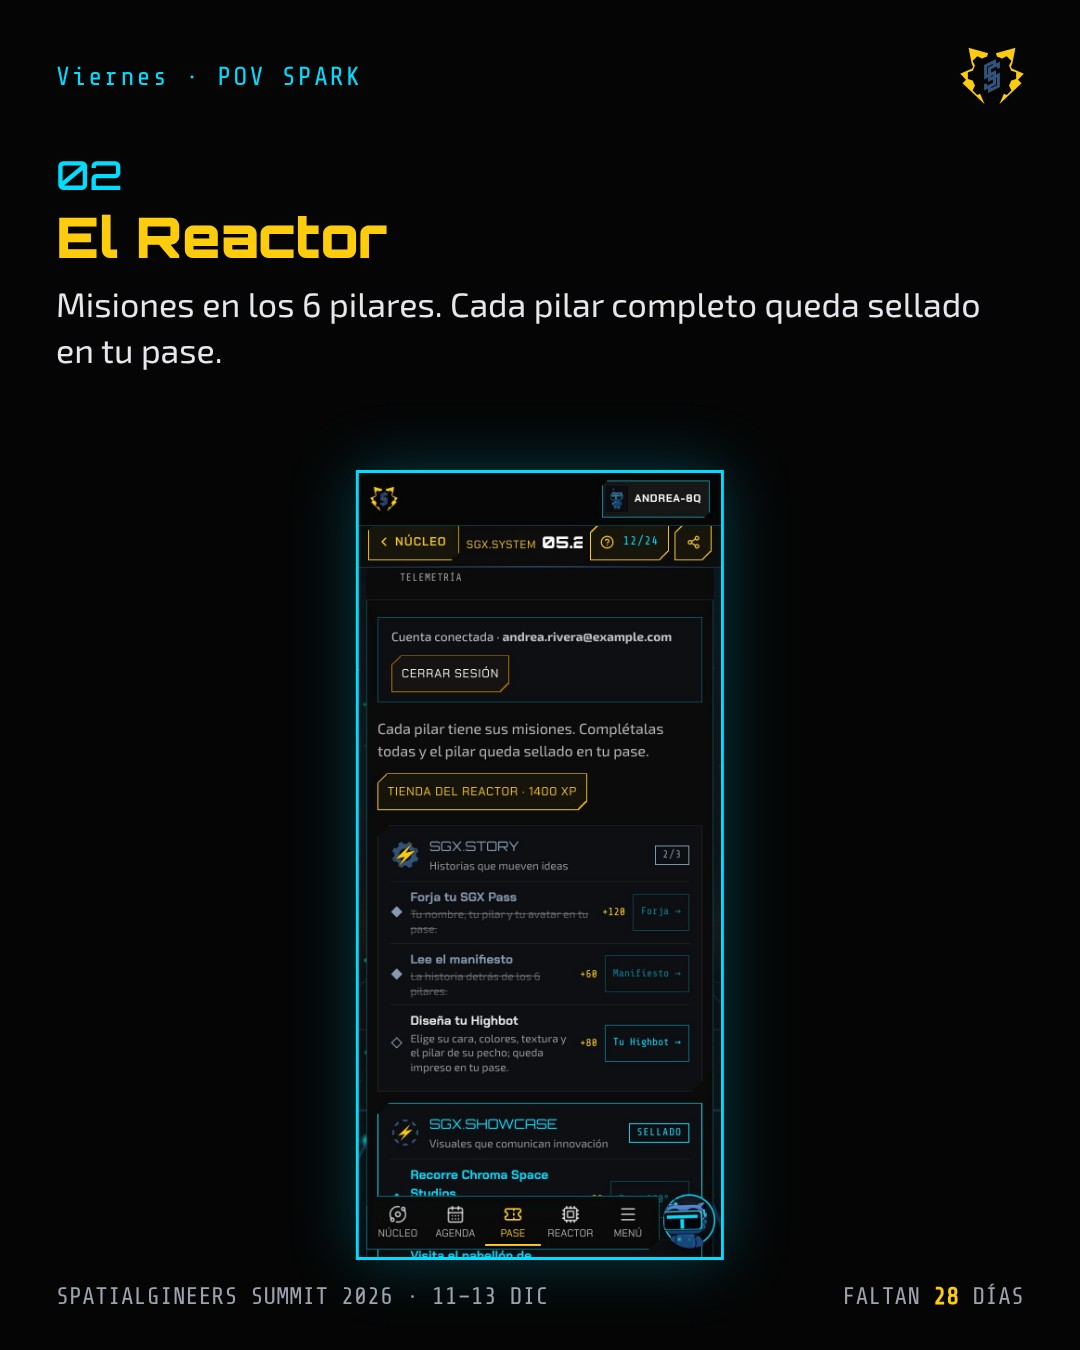
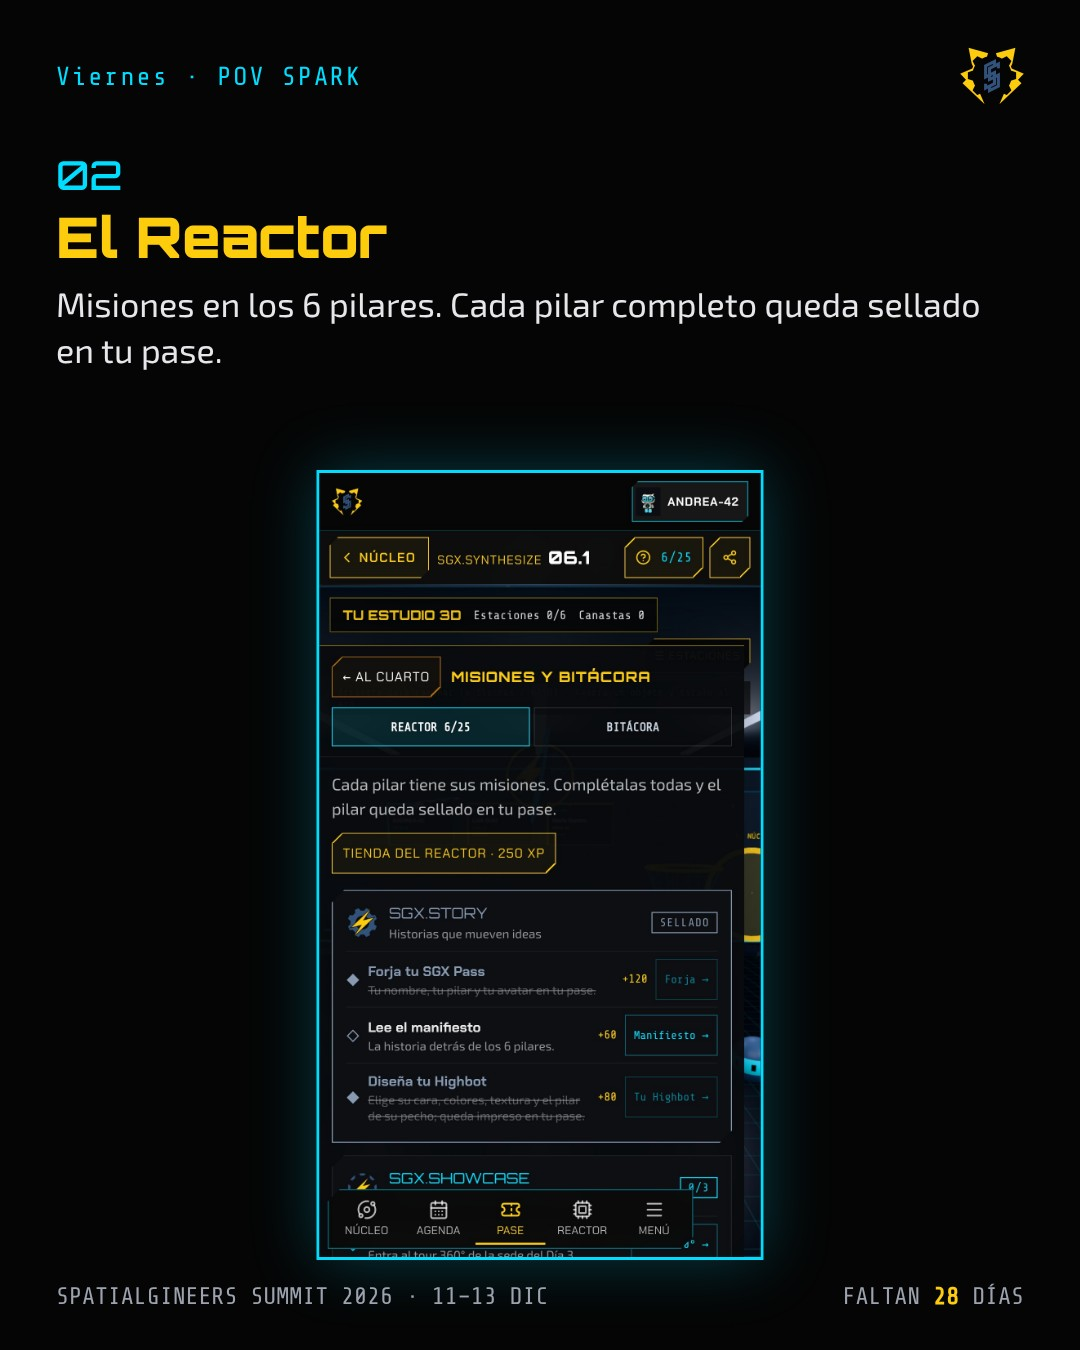
Contenido al día con Tu Estudio nuevo: carruseles HD, guía y plan de campaña
- Carrusel "Tu pase es una llave" (láminas 2, 3 y 5) y repaso (lámina 5) con capturas nuevas a 1080x1920
- Guía: Tu Estudio como cuarto 3D con estaciones; el generador del PDF captura los paneles
- Plan y calendario: reel "Tu Estudio 3D" (27 nov)
- Rolodex: el QR se muestra desde Mi SGX Pass
- El cuarto expone dónde están sus objetos solo con localStorage.sgx_room_debug (para grabar)

Claude-Session: https://claude.ai/code/session_01FDbDkxDeyXwFzriNaGtfgs

Changed region(s): [[0.275, 0.3422, 0.7333, 0.9333]]

diff --git a/src/identity/SgxHangar.tsx b/src/identity/SgxHangar.tsx
@@ -317,8 +317,8 @@ export const SgxHangar: React.FC<Props> = ({ onClose, onForge, initialTab = 'pas
               </div>
               <p className="sgx-hangar__note">
                 {es
-                  ? 'Cuando escaneas el pase de alguien, tú quedas en su Rolodex y esa persona en el tuyo. También puedes mostrar tu QR desde la pestaña Pase.'
-                  : "When you scan someone's pass, you land in their Rolodex and they land in yours. You can also show your QR from the Pass tab."}
+                  ? 'Cuando escaneas el pase de alguien, tú quedas en su Rolodex y esa persona en el tuyo. También puedes mostrar tu QR desde Mi SGX Pass.'
+                  : "When you scan someone's pass, you land in their Rolodex and they land in yours. You can also show your QR from My SGX Pass."}
               </p>
               {identity.contacts.length === 0 ? (
                 <div className="sgx-hangar__empty sgx-hangar__empty--sm">{es ? 'Tu Rolodex está vacío. El Día 3 se llena solo.' : 'Your Rolodex is empty. Day 3 fills it up.'}</div>

diff --git a/src/identity/studioRoom/roomPlay.ts b/src/identity/studioRoom/roomPlay.ts
@@ -439,5 +439,14 @@ export function createRoomPlay(d: RoomPlayDeps): RoomPlay {
     }
   };
 
+  // recording helper (off unless localStorage.sgx_room_debug is set): where each prop is on screen
+  try {
+    if (localStorage.getItem('sgx_room_debug')) {
+      (window as unknown as { __sgxRoomProps?: () => Array<{ x: number; y: number }> }).__sgxRoomProps = () => {
+        const b = d.dom.getBoundingClientRect();
+        return props.map((p) => { const v = p.pos.clone().project(camera); return { x: b.left + (v.x + 1) / 2 * b.width, y: b.top + (1 - v.y) / 2 * b.height }; });
+      };
+    }
+  } catch { /* storage blocked */ }
   return { update, grab, dragTo, drop };
 }

diff --git a/docs/GUIA_WEBAPP.md b/docs/GUIA_WEBAPP.md
@@ -226,7 +226,7 @@ Notas:
 | `?pase=<token>` | cualquier ruta | Es el QR del SGX Pass de otra persona: abre "añadir este contacto" (`parsePassQr`, `src/identity/sgxIdentity.ts`) |
 | `?checkin=<código>` | `/` | El QR de la puerta de Chroma: hace el check-in del Día 3 (`SgxPassHost.tsx`) |
 | `?checkinTest=1` | con `checkin` | Ensayo local: abre la ventana del Día 3 sin dar el sello ni el XP |
-| `?estudio=pass\|day3\|reactor\|red` | `/` | Abre Tu Estudio en esa pestaña (lo usan los botones de los correos y el atajo de la PWA). `?hangar=` también funciona. |
+| `?estudio=pass\|day3\|reactor\|red` | `/` | Abre Tu Estudio en ese panel del cuarto (o pestaña en Modo Ligero) (lo usan los botones de los correos y el atajo de la PWA). `?hangar=` también funciona. |
 | `?day=1\|2\|3`, `?subtab=`, `?view=` | agenda y otras | Día y vista |
 | `?pillar=<slug>` | `/`, `/pilares`, `/play`, `/stage` | Tema y pilar del motor en vivo |
 | `?embed=true` | cualquiera | Se salta el arranque y oculta la capa de inmersión |
@@ -396,7 +396,7 @@ Entrar a las seis estaciones cumple la quest "Los Seis Pilares".
 | Módulo | Qué es y qué se hace | Datos | Pase | XP / misión | Archivo |
 |---|---|---|---|---|---|
 | **05.1 Radar de visitas** (`/visitas`) | Desde dónde visitan la app, en vivo: mapa de PR por municipio (Leaflet), globo 3D con arcos hacia Chroma (globe.gl), contadores y leaderboards de regiones. Solo guarda la región aproximada, nunca la IP. La región se pide a `get.geojs.io` o `ipapi.co`. | `summit_visit_stats`, `summit_visit_regions`, `summit_visitors`, `summit_checkins` | No | "Lee el radar" 60 XP | `SummitVisitRadar.tsx`, `SgxVisitGlobe.tsx`, `visitRadarStore.ts`, `src/lib/visitTracker.ts`, `src/lib/prMunicipios.ts`, `public/data/*.geojson` |
-| **05.2 SGX Pass / Tu Estudio** (`/pase`) | Ver la sección 5 | local más Firestore | Sin pase invita a forjar | "Holo Card" 60 XP | `SgxHangar.tsx`, `SgxHoloStudio.tsx` |
+| **06.1 Tu Estudio · SGX Pass** (`/pase`, en Synthesize) | Ver la sección 5: es el cuarto 3D | local más Firestore | Sin pase invita a forjar | "Holo Card" 60 XP | `SgxHangar.tsx`, `SgxHoloStudio.tsx` |
 | **05.3 Escáner de pases & Rolodex** (`/escaner`) | Escanear con la cámara (jsQR), mostrar el QR propio y una libreta privada de contactos que se exporta como `.vcf` o CSV | `summit_pass_exchanges`, local | El intercambio pide pase | "Intercambia pases" 100 XP; +50 XP por cada contacto nuevo | `NetworkingQrScannerModal.tsx`, `src/identity/passNetwork.ts` |
 | **05.4 Terminal de mando** (`/terminal` o `Ctrl+K`) | Navegar escribiendo: busca secciones, pilares y comandos ("ayuda"). Acepta códigos secretos (`wepa`, `highgineer`, `lightningfingers`, `technocore`, `borikua`) y el código Konami. | local | No | "Terminal de mando" 40 XP; quests secretas | `src/immersion/CommandTerminal.tsx`, `quests.ts` |
 
@@ -502,19 +502,22 @@ Los formatos de redes llevan el título "SPATIALGINEERS SUMMIT 2026", la línea 
 
 Exportar cumple "Holo Card" (60 XP) y registra +150 XP de actividad, una vez.
 
-### Tu Estudio (`SgxHangar.tsx`)
+### Tu Estudio (`SgxHangar.tsx` + `studioRoom/`)
 
-Es la página personal del Creador (`/pase`), y el modal desde el chip. Su cabecera muestra el XP total, el XP para gastar y el rango.
+Es la página personal del Creador (`/pase`, módulo en **SGX.Synthesize**). **Es el cuarto 3D de su Highbot**: el Creador camina con él (arrastrar, o flechas/WASD), tira objetos al aro y entra a cada parte de su Estudio desde una estación. Cada estación abre un **panel encima del cuarto**: a la derecha en escritorio y desde abajo en el teléfono. Se cierra con "← Al cuarto" o Escape. El botón "☰ Estaciones" lleva directo a cada una, y tocar una Holo Card de la pared la abre.
 
-| Pestaña | Qué tiene |
-|---|---|
-| **Pase** | La Holo Card y su estudio, el QR, "Pase en PDF" (`passPdf.ts`, jspdf), "Copiar código", "Escanear pase", editar datos y "Tu rol en el Summit" |
-| **Tu Highbot** | El Highbot en 3D (se arrastra para girar), el chat con el Highbot (`CompanionStudio.tsx`) y las estadísticas en vivo (votos, reacciones, XP) con "Ir a SGX Live" |
-| **Reactor x/N** | Las misiones por pilar con sus sellos (sección 6) |
-| **Red N** | La constelación de contactos (`SgxConstellation.tsx`, `constellation.ts`): estrellas por pilar. Los seis pilares dan "Red completa". |
-| **Rolodex N** | Los pases escaneados ("te escaneó" / "escaneado"), "Escanear un pase" y "Exportar vCard" |
-| **Día 3** | "Tu pase es la llave del Día 3": el QR de entrada, "Hacer check-in" (o "Check-in abre el 13 de diciembre"), el sello "PRESENTE EN CHROMA", el bloque de networking (1:00–2:00 PM), premios y códigos de canje |
-| **Telemetría** | La bitácora de actividad, el leaderboard de creadores y el enlace al radar |
+| Estación | Panel | Qué tiene |
+|---|---|---|
+| **Pedestal** | **Mi SGX Pass** | Resumen (rol, solicitudes, Día 3, conexiones, XP); la Holo Card y su estudio (tarjeta 3D, post 4:5, story 9:16, PNG, compartir, video para stories); "Pase en PDF", "Copiar código", "Escanear pase", editar datos; **Tu rol en el Summit** (speaker, sponsor, prensa, Guild) con la fecha en que cierra cada solicitud; el **Día 3** (QR de entrada, check-in, sello "PRESENTE EN CHROMA", networking, códigos de canje); SGX Live; la **cuenta de Google** |
+| **Cápsula** | **Tu Highbot** | El chat con el Highbot (`CompanionStudio.tsx`) |
+| **Repisa de sellos y trofeos** | **Misiones y bitácora** → Reactor | Las misiones por pilar con sus sellos (sección 6) |
+| **Computadora** | **Misiones y bitácora** → Bitácora | La bitácora de actividad, el leaderboard de creadores y el enlace al radar |
+| **Pared de Holo Cards** | **Tus conexiones** → Rolodex / Red | Los pases escaneados ("te escaneó" / "escaneado"), "Escanear un pase", "Exportar vCard"; la constelación de contactos (`SgxConstellation.tsx`). Los seis pilares dan "Red completa". |
+| **Portal** | — | Vuelve al núcleo |
+
+**El cuarto refleja el progreso del Creador:** un trofeo en la repisa por cada pilar sellado, una luz en el zócalo por cada misión, el objeto de su rol oficial (micrófono con foco de speaker, cámara de prensa, bandera de sponsor o Guild), más luz de su color según su nivel, el logo de Spatialgineers flotando en el centro y el dron del juego patrullando. Los objetos (bolas, cubos, engranaje) tienen física propia (`roomPlay.ts`): el Highbot los empuja, se agarran y se tiran, y el aro lleva la cuenta de canastas.
+
+**En Modo Ligero** (o si el 3D no abre) Tu Estudio se ve como pestañas: Mi SGX Pass, Tu Highbot, Reactor, Bitácora, Rolodex y Red. `?estudio=pass|day3|reactor|red` abre el panel o la pestaña que toca (`day3` = Mi SGX Pass en su parte del Día 3). `/estudio-3d` es el mismo cuarto como página propia; ahí cada estación lleva a Tu Estudio.
 
 ### Constructor del Highbot
 
@@ -678,9 +681,9 @@ Se ven en el pase y en el Reactor.
 
 ### Leaderboards
 
-- **Creadores**: `pilot_leaderboard`, en Tu Estudio → Telemetría y en la Tienda.
+- **Creadores**: `pilot_leaderboard`, en Tu Estudio → computadora (Bitácora) y en la Tienda.
 - **Juegos**: `game_scores/{stack|pulse|bolt}/players/{uid}`, con top 10 y tu lugar (`src/lib/gameScores.ts`). El dron tiene su `DroneRanking`.
-- **Regiones**: en el Radar de visitas. **Constelaciones**: el tablero de `summit_constellations` en Tu Estudio → Red.
+- **Regiones**: en el Radar de visitas. **Constelaciones**: el tablero de `summit_constellations` en Tu Estudio → pared de Holo Cards (Red).
 - **SGX Live**: el puntaje del motor en vivo, con velocidad y rachas. El multiplicador es `1 + min(3, racha × 0.25)`.
 
 ### Networking
@@ -775,7 +778,7 @@ Resultados del 28 oct 2026, en una máquina de 4 vCPU con Node 22:
 
 ## 8. Highbot con Claude
 
-El Highbot es Highcoon en forma de robot: el compañero de cada Creador. Vive en Tu Estudio ("Tu Highbot") y flota como una cabecita en las demás páginas (`src/companion/CompanionDock.tsx`, `CompanionPanel.tsx`, `CompanionStudio.tsx`, `companionStore.ts`, `companionApi.ts`). Contesta con Claude a través del servidor (`POST /api/companion/chat`, por SSE con los eventos `text`, `action`, `done` y `error`).
+El Highbot es Highcoon en forma de robot: el compañero de cada Creador. Vive en la cápsula de Tu Estudio ("Tu Highbot") y flota como una cabecita en las demás páginas (`src/companion/CompanionDock.tsx`, `CompanionPanel.tsx`, `CompanionStudio.tsx`, `companionStore.ts`, `companionApi.ts`). Contesta con Claude a través del servidor (`POST /api/companion/chat`, por SSE con los eventos `text`, `action`, `done` y `error`).
 
 ### Quién puede chatear
 
@@ -1391,7 +1394,7 @@ Las capturas van a `scripts/e2e/out/`. Hay que correr `visitor.cjs` antes que `a
 | Término | Significado |
 |---|---|
 | **Creador** | Cada visitante de la app |
-| **Tu Estudio** | La página personal del Creador: pase, Highbot, Reactor, Red, Rolodex, Día 3, telemetría. En código: `SgxHangar` / `CREDENTIAL_GENERATOR`. |
+| **Tu Estudio** | La página personal del Creador: el cuarto 3D de su Highbot, con sus estaciones (Mi SGX Pass, Highbot, Reactor, Bitácora, Rolodex y Red). En código: `SgxHangar` + `studioRoom/` / `CREDENTIAL_GENERATOR`. |
 | **SGX Pass** | La credencial gratis del Summit; es lo mismo que la Holo Card. Se forja en la Forja. |
 | **Forja** | El flujo para crear o editar el pase (`SgxForge.tsx`) |
 | **Holo Card** | La tarjeta visual del pase, con frente, reverso, foil y formatos para compartir; cambia según el rol aprobado |

diff --git a/docs/campaign/CAMPANA_REDES.md b/docs/campaign/CAMPANA_REDES.md
@@ -123,8 +123,8 @@ Cada pieza es un solo feature, grabado de la app real, con una frase gancho y un
 | 4 | Holo Card | "Tu pase es una carta 3D. Dale la vuelta." | Showcase |
 | 5 | Arena en vivo | "Tu voto cambia el escenario en segundos." | Stage |
 | 6 | Dron SGX | "Cruza San Juan por los anillos de los 6 pilares." | Spark |
-| 7 | Reactor + Tienda | "Misiones, XP y premios reales." | Spark |
-| 8 | Escáner + Rolodex | "Networking con un QR." | Synthesize |
+| 7 | Reactor + Tienda | "Misiones, XP y premios reales." (grabar desde la repisa de trofeos de Tu Estudio) | Spark |
+| 8 | Escáner + Rolodex | "Networking con un QR." (escaneas y la Holo Card aparece en la pared de tu Estudio) | Synthesize |
 | 9 | Recorrido 360° de Chroma | "Conoce la sede del Día 3 antes de llegar." | Showcase |
 | 10 | Terminal de mando | "Navega todo el Summit escribiendo." | System |
 | 11 | Sin descargar + offline | "Añádela a tu pantalla. Tu pase abre sin señal." | System |
@@ -207,6 +207,7 @@ Cada día sigue nuestro sistema de pilar del día. Todos los captions terminan c
 | mié 25 nov | 16 | STORY | Carrusel | El programa: 3 días, 3 actos (Framework y Guild · Industry Day · Showcase en Chroma). | Tres días, tres actos: el framework, la industria y el futuro. Así se vive el Spatialgineers Summit 2026, del 11 al 13 de diciembre. |
 | jue 26 nov | 15 | SHOWCASE | Micro-reel | Una marca dentro del núcleo 3D, el juego y la pantalla. Story: faltan 2 días para sponsors. | Así se ve tu marca dentro del Summit: no un logo en una esquina, sino parte de la experiencia. Quedan 2 días para solicitar tu paquete. |
 | vie 27 nov | 14 | SPARK | Orgánico | Tomas de drones del estudio, cerrando con el Dron SGX de la app. | Lo hacemos en la vida real y ahora lo puedes hacer tú: el Dron SGX te pone a volar por San Juan dentro de la app. |
+| vie 27 nov | Reel | **Tu Estudio 3D:** "Tu Highbot tiene casa" | visitante |
 | sáb 28 nov | 13 | STAGE | Post + story | Hoy cierran las solicitudes de sponsors. | HOY cierran las solicitudes de sponsors del Spatialgineers Summit 2026. Pago y materiales hasta el 30 de noviembre. Link en bio. |
 | dom 29 nov | 12 | SYSTEMS | Anuncio | Primer speaker confirmado, con la plantilla de speaker. Si aún no hay, los fundadores abren el Día 1. | CONFIRMADO: [Nombre], [rol] en [org], abre la conversación de [pilar] el 12 de diciembre. Gratis por YouTube Live. Link en bio. |
 | lun 30 nov | 11 | SYNTHESIZE | Reel | Corte de 60–90 s del recorrido completo. Story: hoy vencen pago y materiales. | Todo el Summit en una app: 6 pilares y más de 20 módulos, del pase al escenario. Recórrela antes del 11 de diciembre. |
